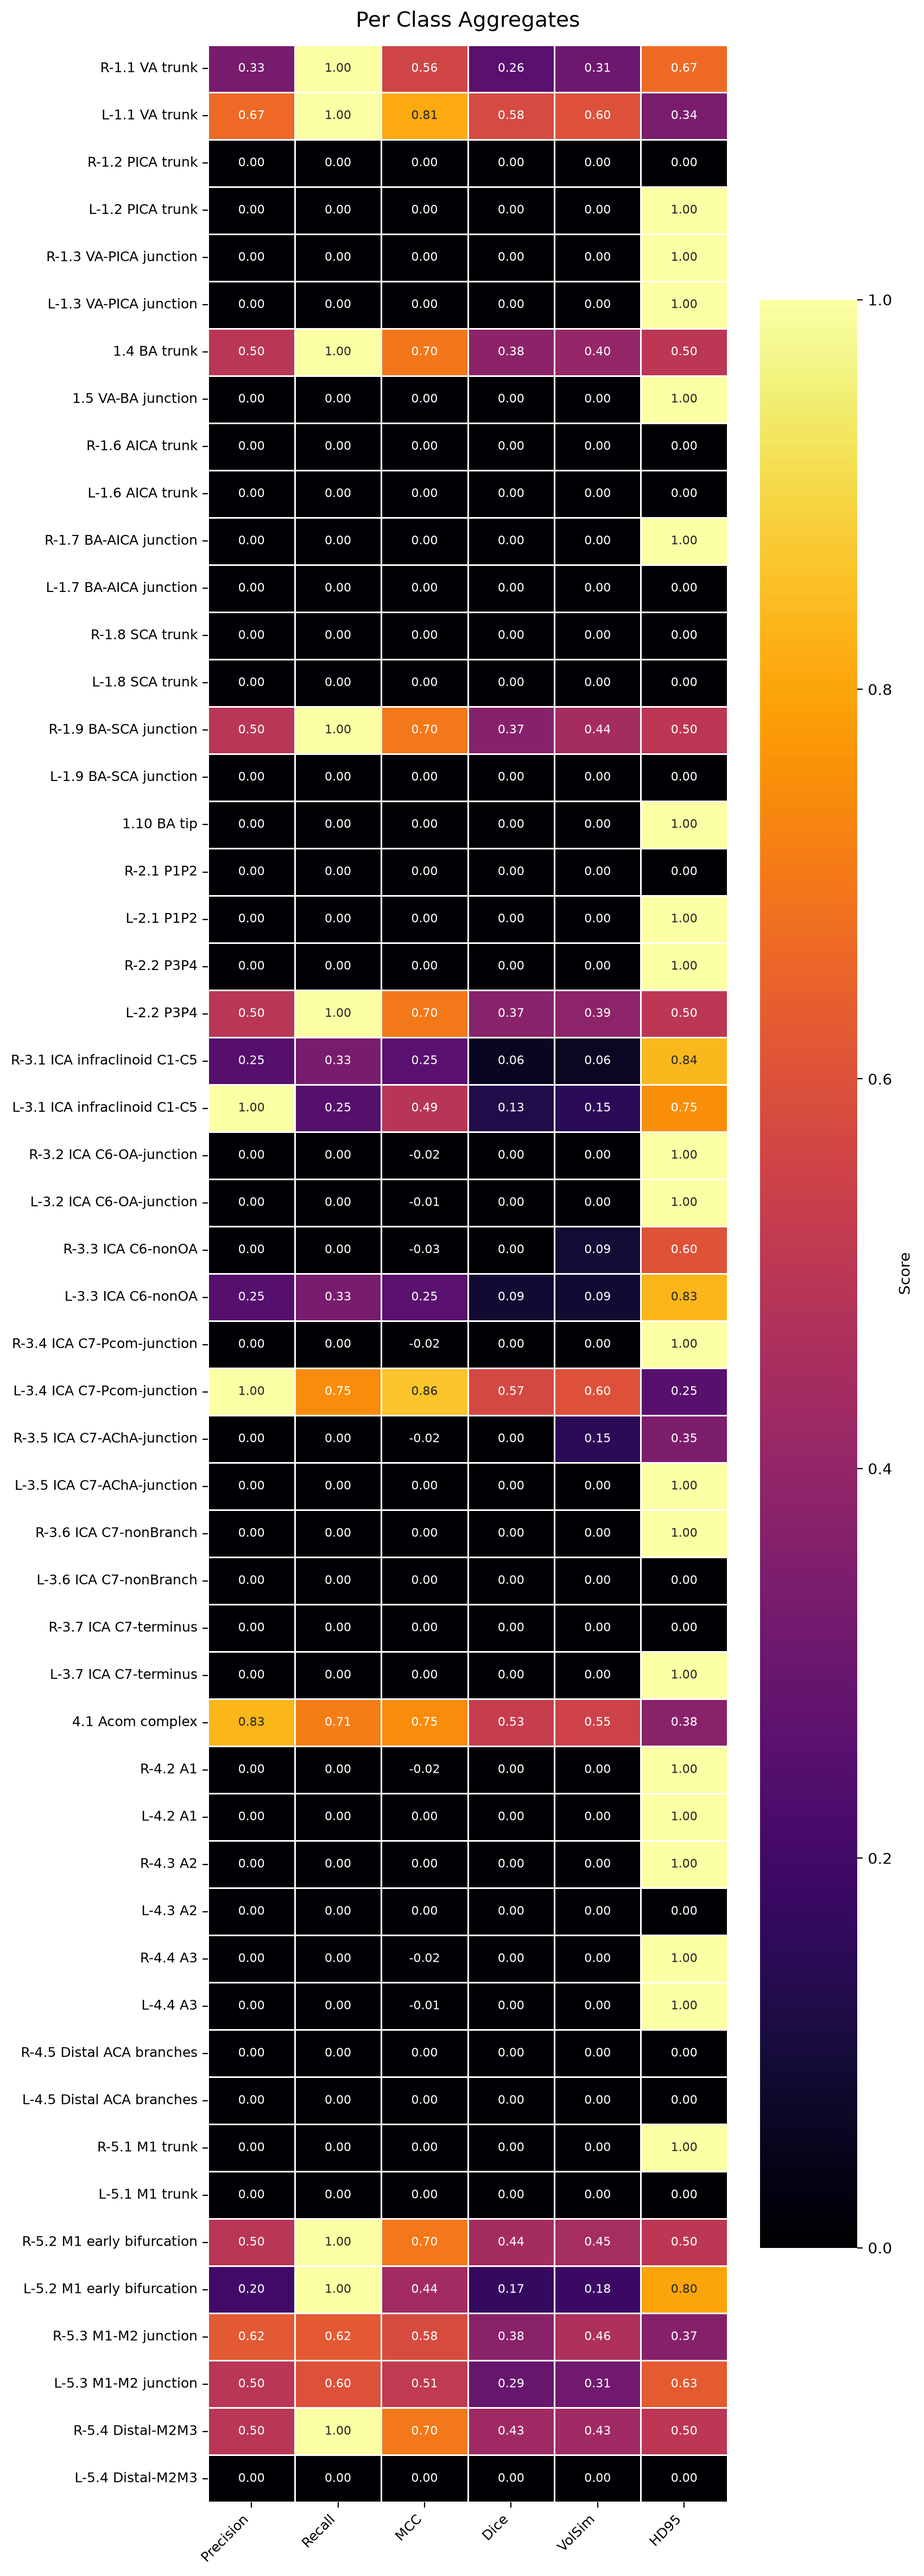
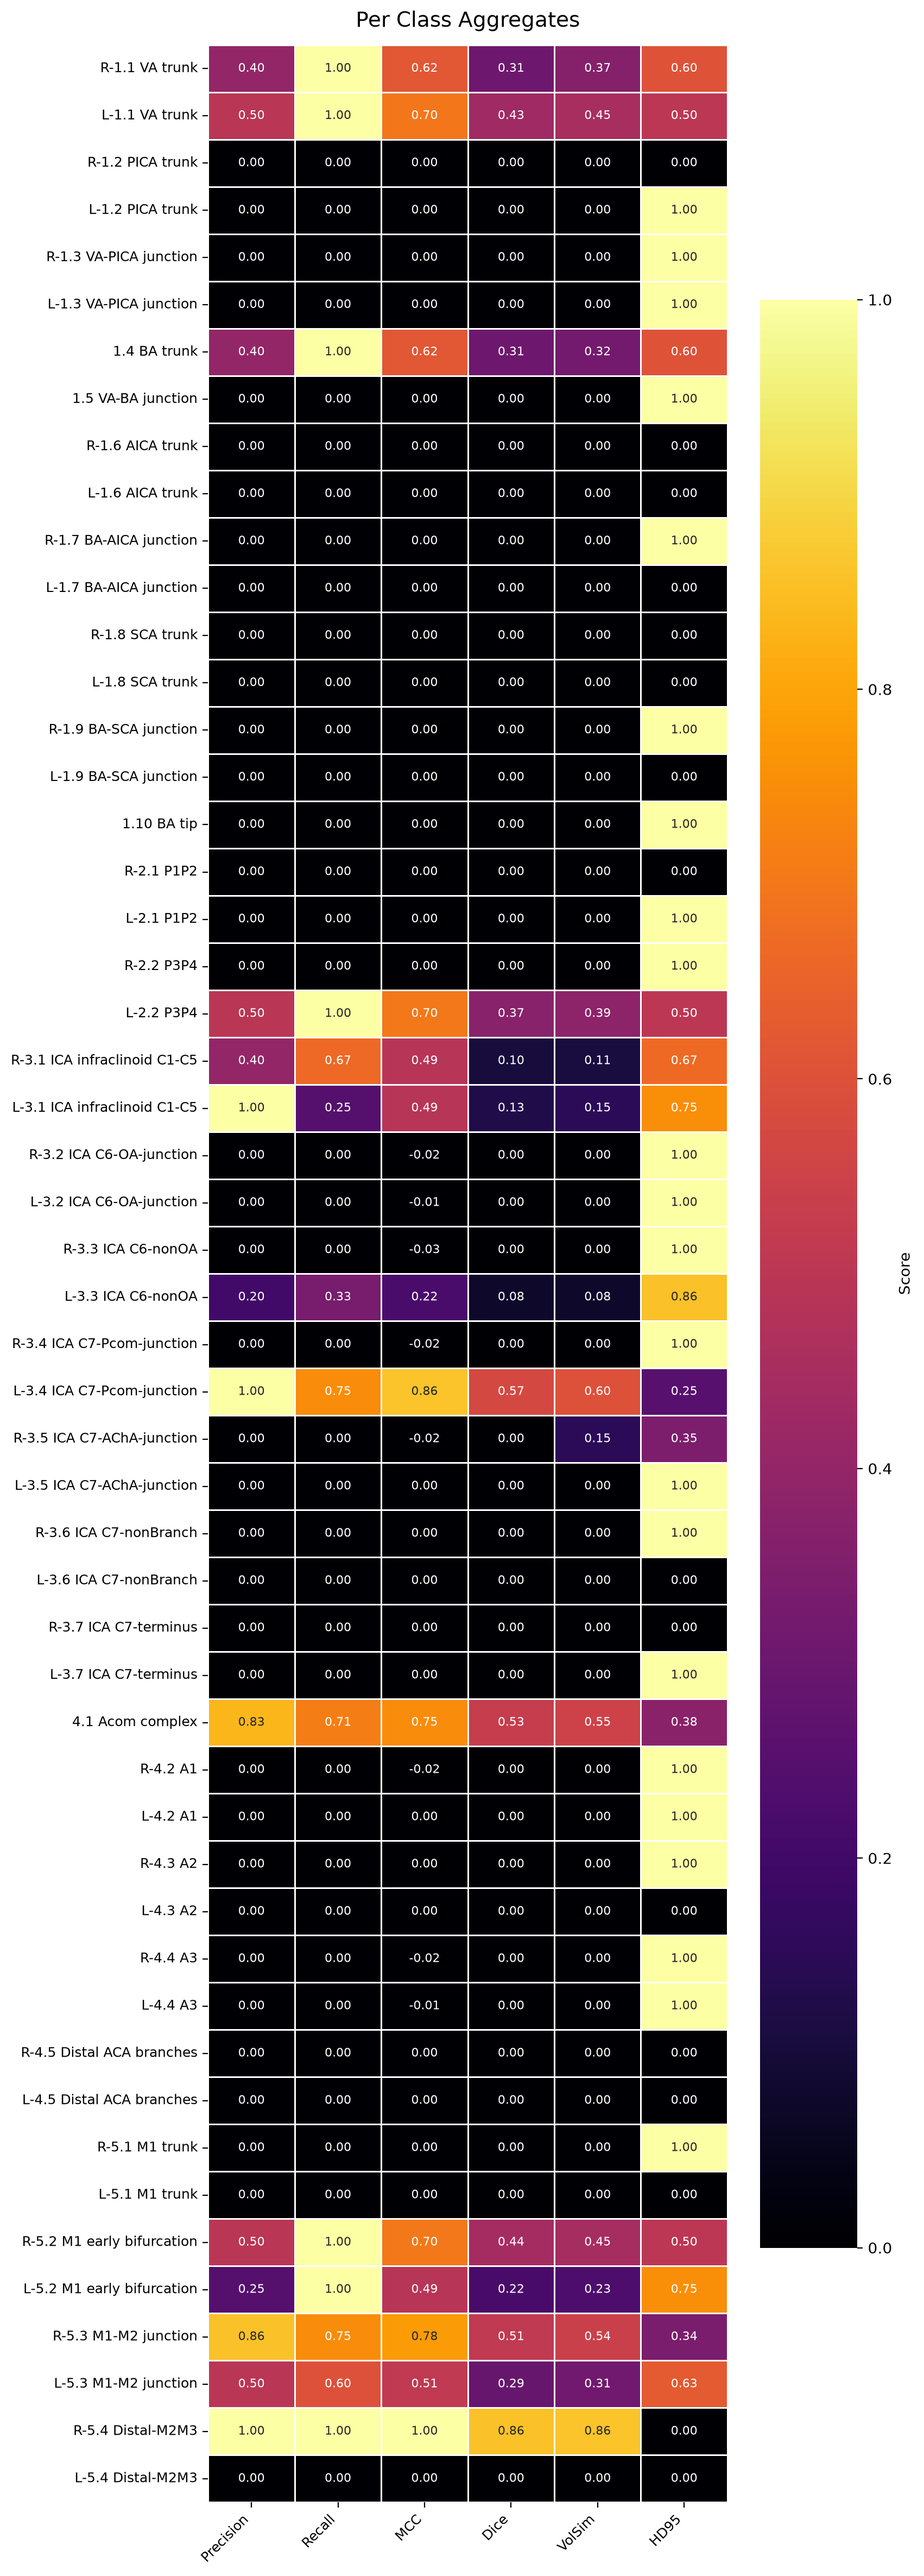
updates

diff --git a/TnT/evaluation/topaneu26.py b/TnT/evaluation/topaneu26.py
@@ -417,7 +417,7 @@ class TopAneu26LikeEvaluator():
         ct = [smp for smp in results if smp['modality']=='CTA']
         
         aggregates_mr = evaluation_aggregation(mr)
-        averages_mr = evaluation_average(aggregates_mr)
+        averages_mr = evaluation_average(aggregates_mr, ignore_absent=False)
         print('Results MRA:')
         pprint(averages_mr)
         self.plot(aggregates_mr, path/'per_cls_heatmap_mr.png', 'Per Class Aggregates MRA')
@@ -425,7 +425,7 @@ class TopAneu26LikeEvaluator():
             json.dump(averages_mr, f, indent=4)
         
         aggregates_ct = evaluation_aggregation(ct)
-        averages_ct = evaluation_average(aggregates_ct)
+        averages_ct = evaluation_average(aggregates_ct, ignore_absent=False)
         print('Results CTA:')
         pprint(averages_ct)
         self.plot(aggregates_ct, path/'per_cls_heatmap_ct.png', 'Per Class Aggregates CTA')

diff --git a/TnT/utils/dataloader.py b/TnT/utils/dataloader.py
@@ -300,6 +300,19 @@ class TopAneu_TnTs2_DS(Dataset):
             
         self.aneus+=extra_patches
         
+    def separate_by_modality(self):
+        ct = TopAneu_TnTs2_DS(self.image_ds.src, self.transforms, self.patch_size_mm, str(self.wdir)+'_ct' if self.wdir is not None else None)
+        ct.image_ds.cases = self.image_ds.cases
+        
+        mr = TopAneu_TnTs2_DS(self.image_ds.src, self.transforms, self.patch_size_mm, str(self.wdir)+'_mr' if self.wdir is not None else None)
+        mr.image_ds.cases = self.image_ds.cases
+        
+        for a in self.aneus:
+            if a['modality']=='MRA': mr.aneus.append(a)
+            else: ct.aneus.append(a)
+            
+        return ct, mr
+        
     def split(self, folds='0.8-0.2', random_seed=42):
         folds = [float(val) for val in folds.split('-')]
         assert sum(folds)==1, 'Sum of folds must be equal to 1'

diff --git a/inference.py b/inference.py
@@ -10,7 +10,7 @@ if __name__ == '__main__':
     PATCH_SIZE_MM = 35
     
     S1_path = None # '/home/tue20260926/Models/TopAneu-26/Stage1/nnUNetTrainer_single_encoder_mixed__nnUNetPlans__3d_fullres'
-    S2_path = '/home/tue20260926/Repos/topaneu_tulips_and_tapas/_tune/TnTS2_training_from-10:17:54-17.08.26/best_val_loss'
+    S2_path = '/home/tue20260926/Repos/topaneu_tulips_and_tapas/_tune/TnTS2_training_from-12:41:52-18.08.26_clipping_and_new_stds/best_val_loss'
     
     ## Prep pipeline
     pl = InferencePipeline(S1_path, S2_path, PATCH_SIZE_VX, PATCH_SIZE_MM)
